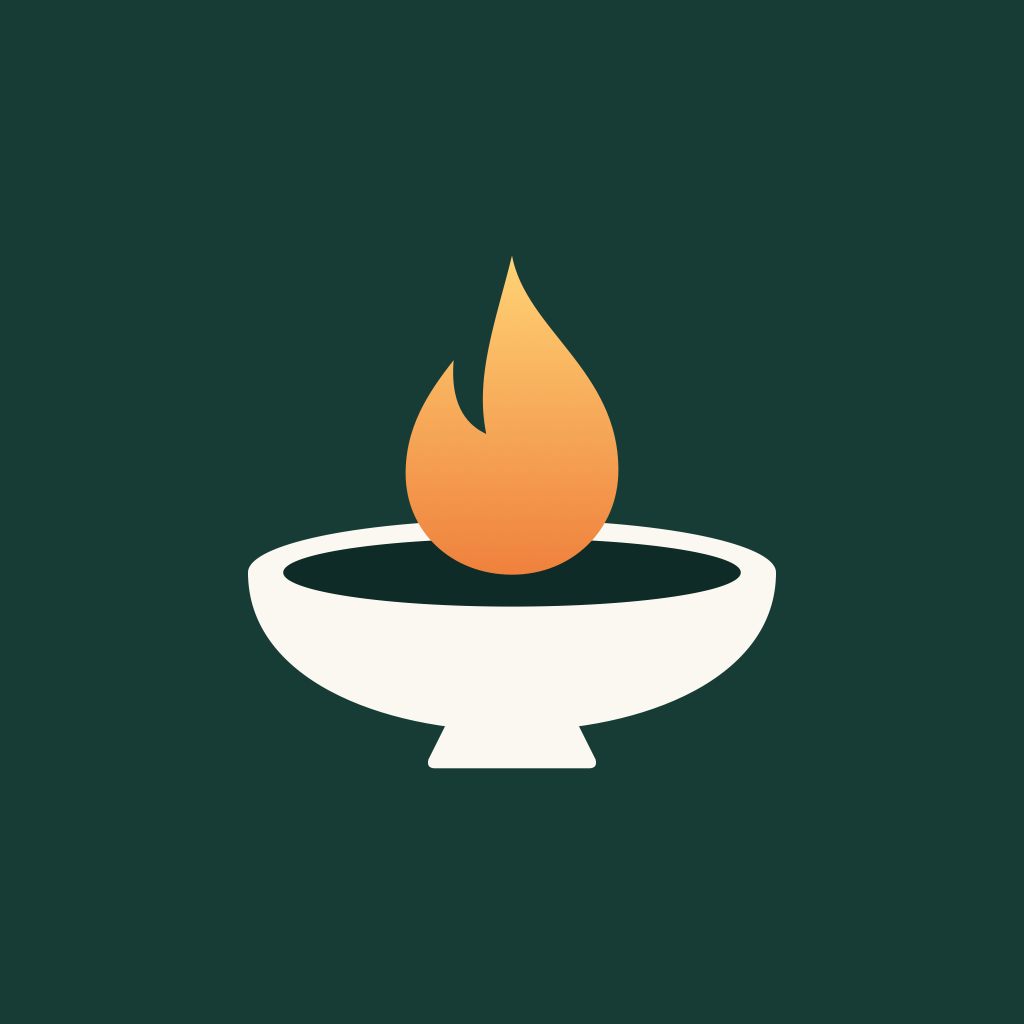
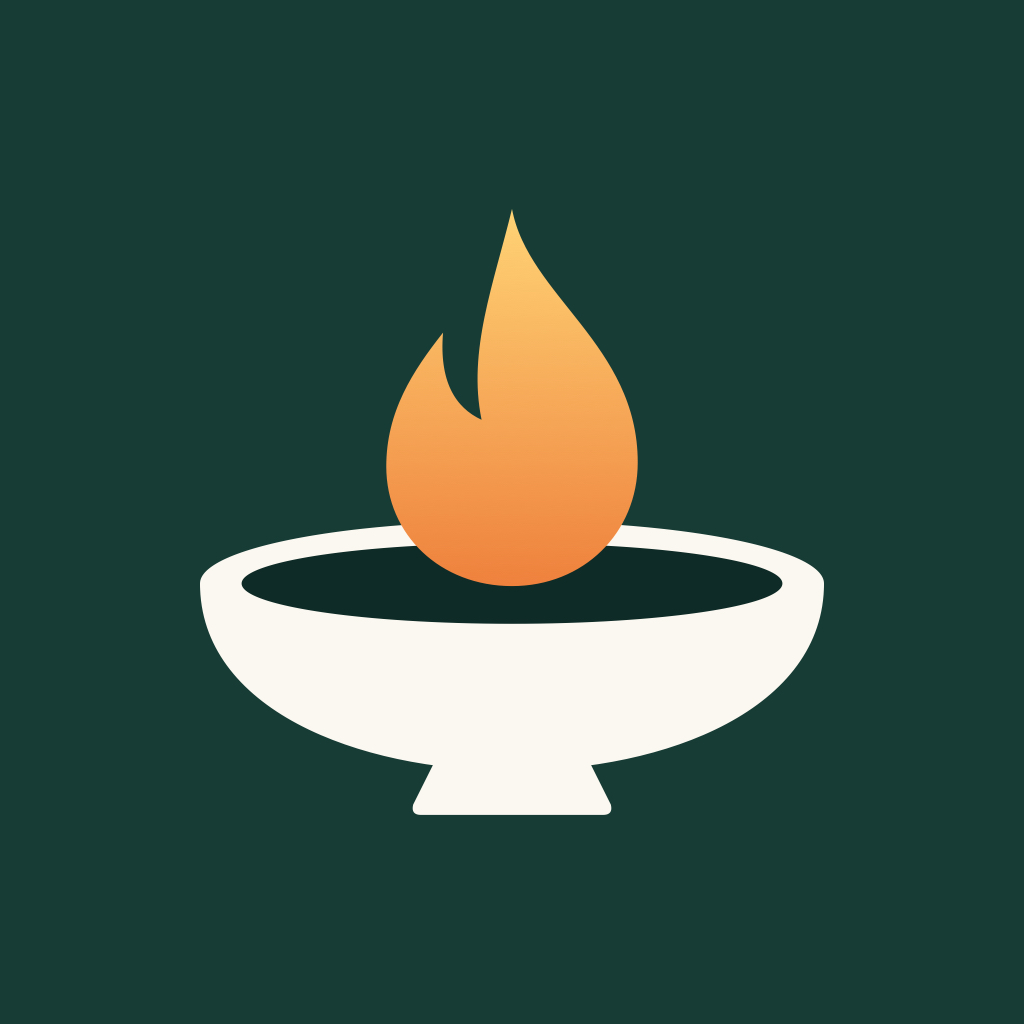
feat(brand): draw the oil lamp larger
The lamp read small on the home screen. Scale the whole lamp from 1.1 to
1.3 in all three variants, so the bowl spans about 61% of the icon
instead of 52%; the flame-to-bowl proportions are unchanged. Regenerated
all 13 PNGs with scripts/generate_app_icons.sh.

Changed region(s): [[0.1875, 0.2188, 0.8125, 0.8125], [0.6875, 0.5, 0.7188, 0.5312], [0.2812, 0.5, 0.3125, 0.5312]]

diff --git a/docs/visual-design-validation.md b/docs/visual-design-validation.md
@@ -7,7 +7,7 @@
   그 위로 기존과 같은 모양의 불꽃이 피어오른다. 불꽃 속 구멍과 후광은 뺐다.
 - 불꽃이 그릇만큼 크면 화로나 성화대처럼 읽혀서, 불꽃은 그릇 폭의 약 40%로 줄였다.
   받침대를 세운 안은 성화봉이나 잔처럼 보여서, 측면에서 본 기름 등잔은 지니 램프처럼
-  보여서 뺐다. 전체 덩어리는 캔버스 중앙에 두고 그릇 폭은 약 52%다.
+  보여서 뺐다. 전체 덩어리는 캔버스 중앙에 두고 그릇 폭은 약 61%다(2026-11-05에 52%에서 키움).
 - 틴트 버전은 흰 불꽃이 흰 그릇 테두리와 붙지 않도록 불꽃 둘레에 배경색 외곽선을 둔다.
 - `scripts/generate_app_icons.sh`로 13개 PNG를 다시 만들었고, 모두 불투명 RGB이며
   마스터와 기본 에셋이 일치한다. 기본·다크·틴트와 64px 축소본을 시각 검수했다.
